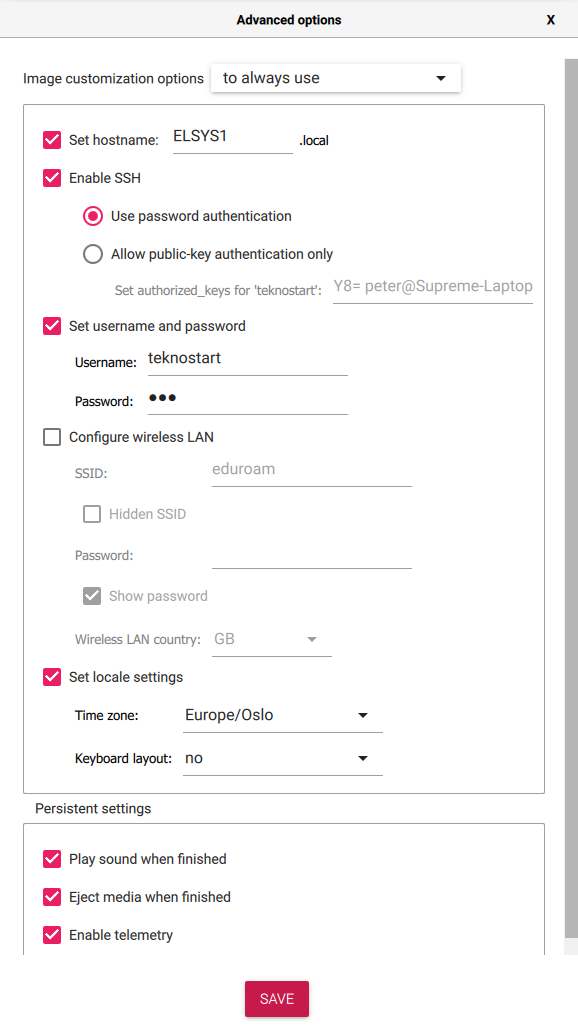
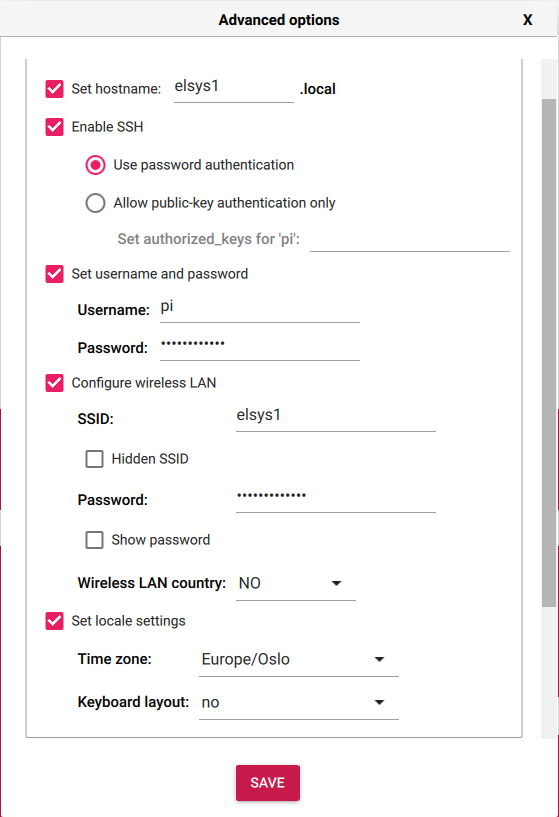
ds

diff --git a/README.md b/README.md
@@ -286,9 +286,15 @@ Her er den tilsvarende tilkoblingen:
   <img src="Media/teknobil/oppkoblingLED.png" height="300" />
 </p>
 
-Illustrasjonen over viser et forslg til hvordan en ferdig krets kan se ut.
+Illustrasjonen over viser et forslg til hvordan en ferdig krets kan se ut. Bildet under viser hva for et kaos det kan bli etter at det er ferdig. Lykke til 😈
+
+<p align="center">
+  <img src="Media/teknobil/realLED.jpg" height="300" />
+</p>
 
 ### Steg 11: Kontroll og kobling av batteri
+
+Nå
 
 Batterikonnektor til spenningsregulator kobles opp som vist under.
 
@@ -312,8 +318,6 @@ Fest bakplaten og sett på topplokket. Bilen skal nå se ut som vist under.
 <p align="center">
   <img src="Media/teknobil/14.png" height="300" />
 </p>
-
-Lykke til med monteringen!
 
 
 
@@ -343,11 +347,11 @@ Slik går du fram for å sette opp SD-kortet:
 
    ![Raspberry Pi Imager](Media/rpi/01Pi-imager.png)
 
-   1. Sett hostname til «ELSYS"gruppenummer"», eksempel: ELSYS14
+   1. Sett hostname til «elsys"gruppenummer"», eksempel: elsys14
    2. Enable SSH
       - Use password authentication
    3. Set username and password
-      - Username: teknostart, NB: viktig at dere kun skriver “teknostart”
+      - Username: pi, NB: viktig at dere kun skriver “pi”
       - Password: "123", eller noe annet dere lett kan huske
    4. Configure wireless LAN
       - NB: SSID og Password må være likt det nettet dere kan dele fra mobilen
@@ -356,7 +360,7 @@ Slik går du fram for å sette opp SD-kortet:
       - Keyboard layout: no
    6. Når du er ferdig skal du se noe tilsvarende:
 
-   ![Raspberry Pi Imager settings](Media/rpi/10settings.png)
+   ![Raspberry Pi Imager settings](Media/rpi/02settings.png)
 
 7. Lagre innstillingene, og trykk på write, dette kan ta litt tid.
 8. Når SD-kortet er ferdig skrevet vil du få en beskjed om at det er trygt å ta det ut av maskinen. Ta det ut, og sett inn i Pi-en.
@@ -380,15 +384,15 @@ Utstyr:
      - Command Promt
    - For Mac kan dere søke opp:
      - Terminal
-3. For å SSH inn til Pi-en går du inn på terminalen og skriver (du kan også copypaste ved å kopiere vanlig for så å lime inn med høyre klikk inne på terminalen.):
+3. For å SSH inn til Pi-en går du inn på terminalen og skriver:
    ```bash
-   ssh teknostart@<hostname>.local
+   ssh pi@<hostname>.local
    ```
-   - Som du satte i Raspberry Pi imager F.eks:
-     ```bash 
-     teknostart@ELSYS1.local 
-     ```
-     - NB: Det kan ta litt tid før Pi-en skrur seg på, så om den ikke finner Pi-en med en gang så bare vent noen minutter og prøv igjen
+  -bytt ut <hostname> med det du satte i Raspberry Pi imager F.eks:
+    ```bash 
+    pi@elsys1.local 
+    ```
+     - NB: Det kan ta litt tid før Pi-en skrur seg på, så om den ikke finner Pi-en med en gang så bare vent noen minutter og prøv igjen du kan også trykke piltast opp på tastaturet for å bruke den siste kommandoen du brukte.
      - Når den spør om du ønsker å koble deg til skriver du “yes” og trykker enter
      - Du vil få noe tilsvarende:
      ![SSH into Raspberry Pi](Media/rpi/03SSH.png)
